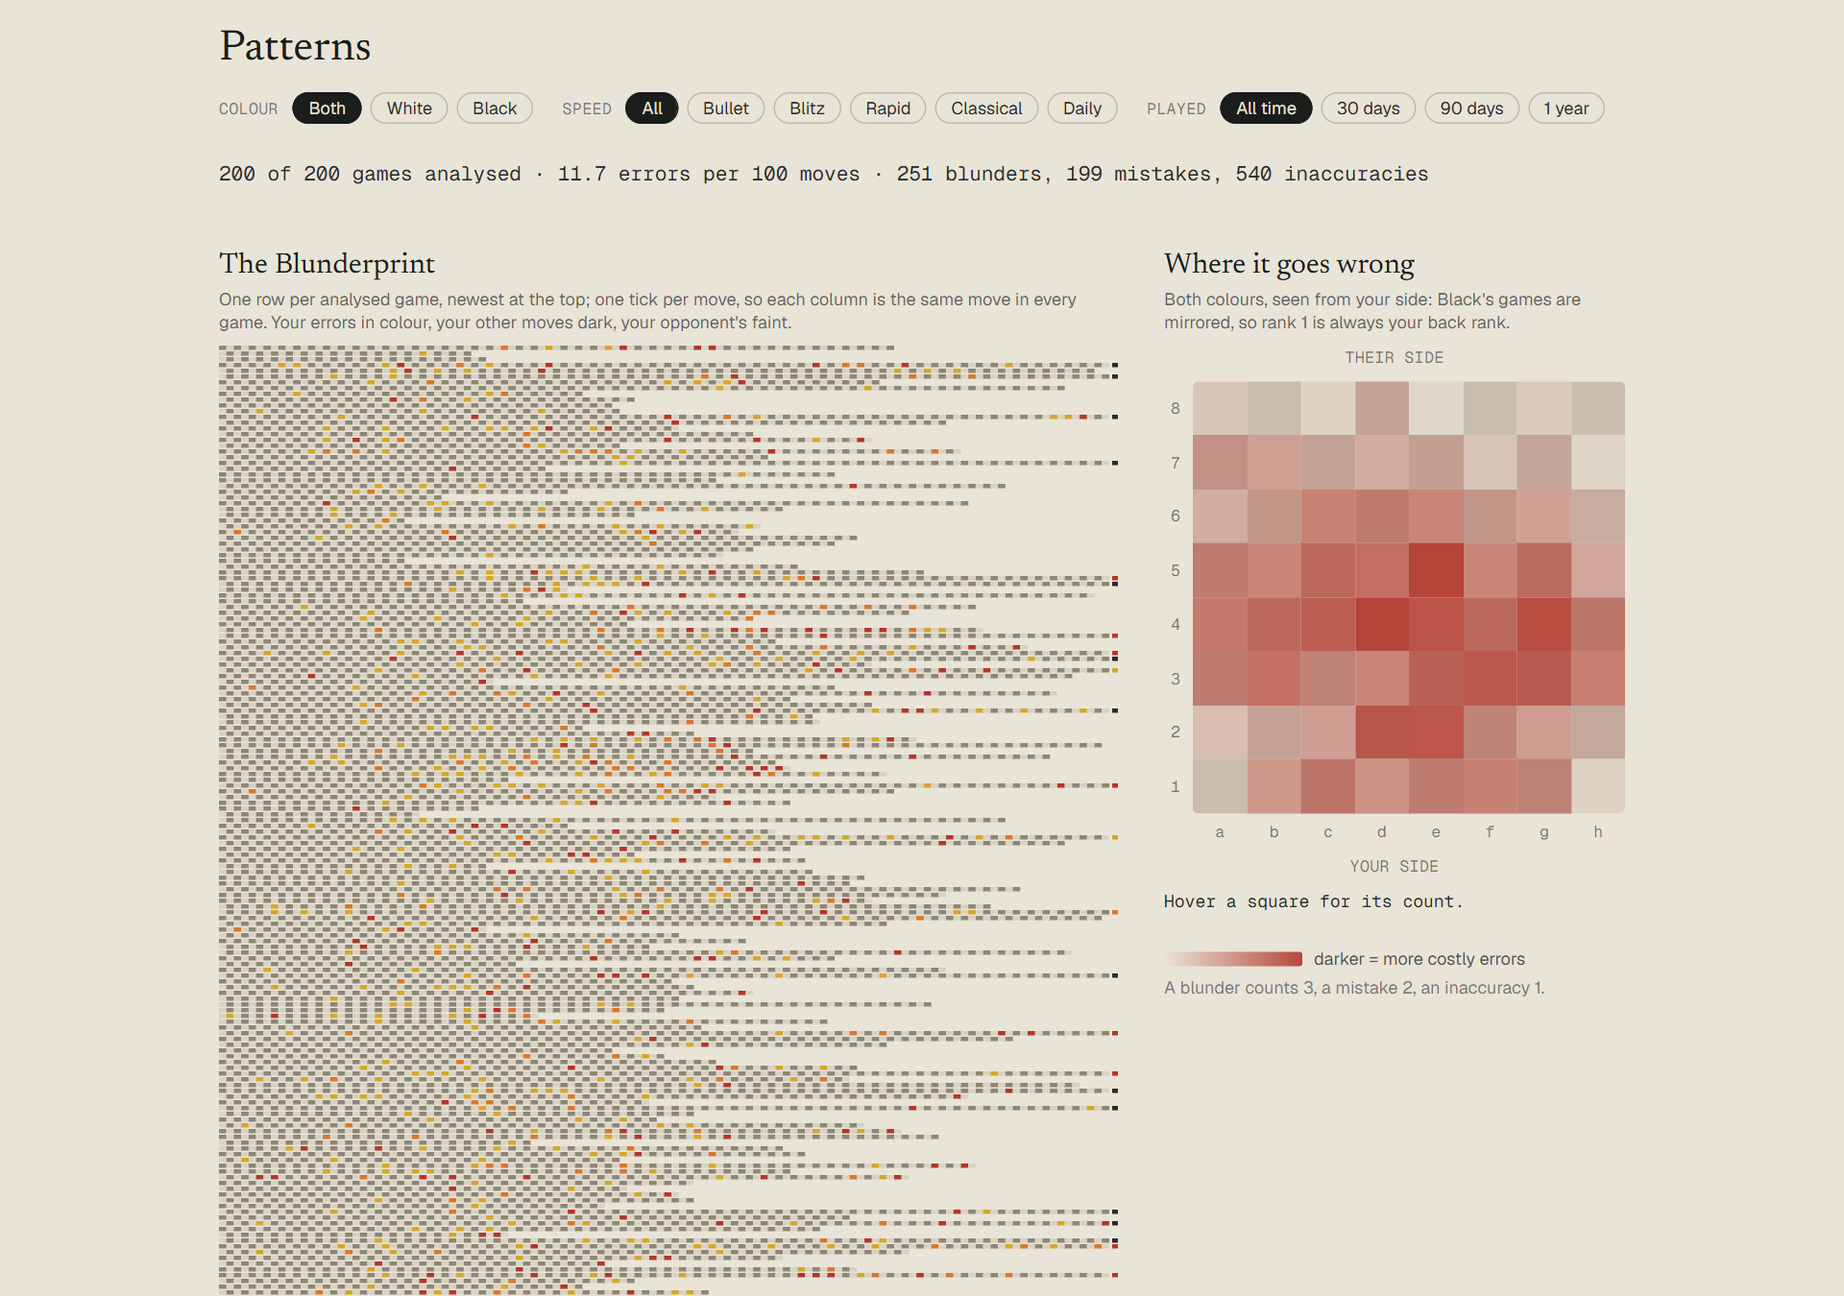
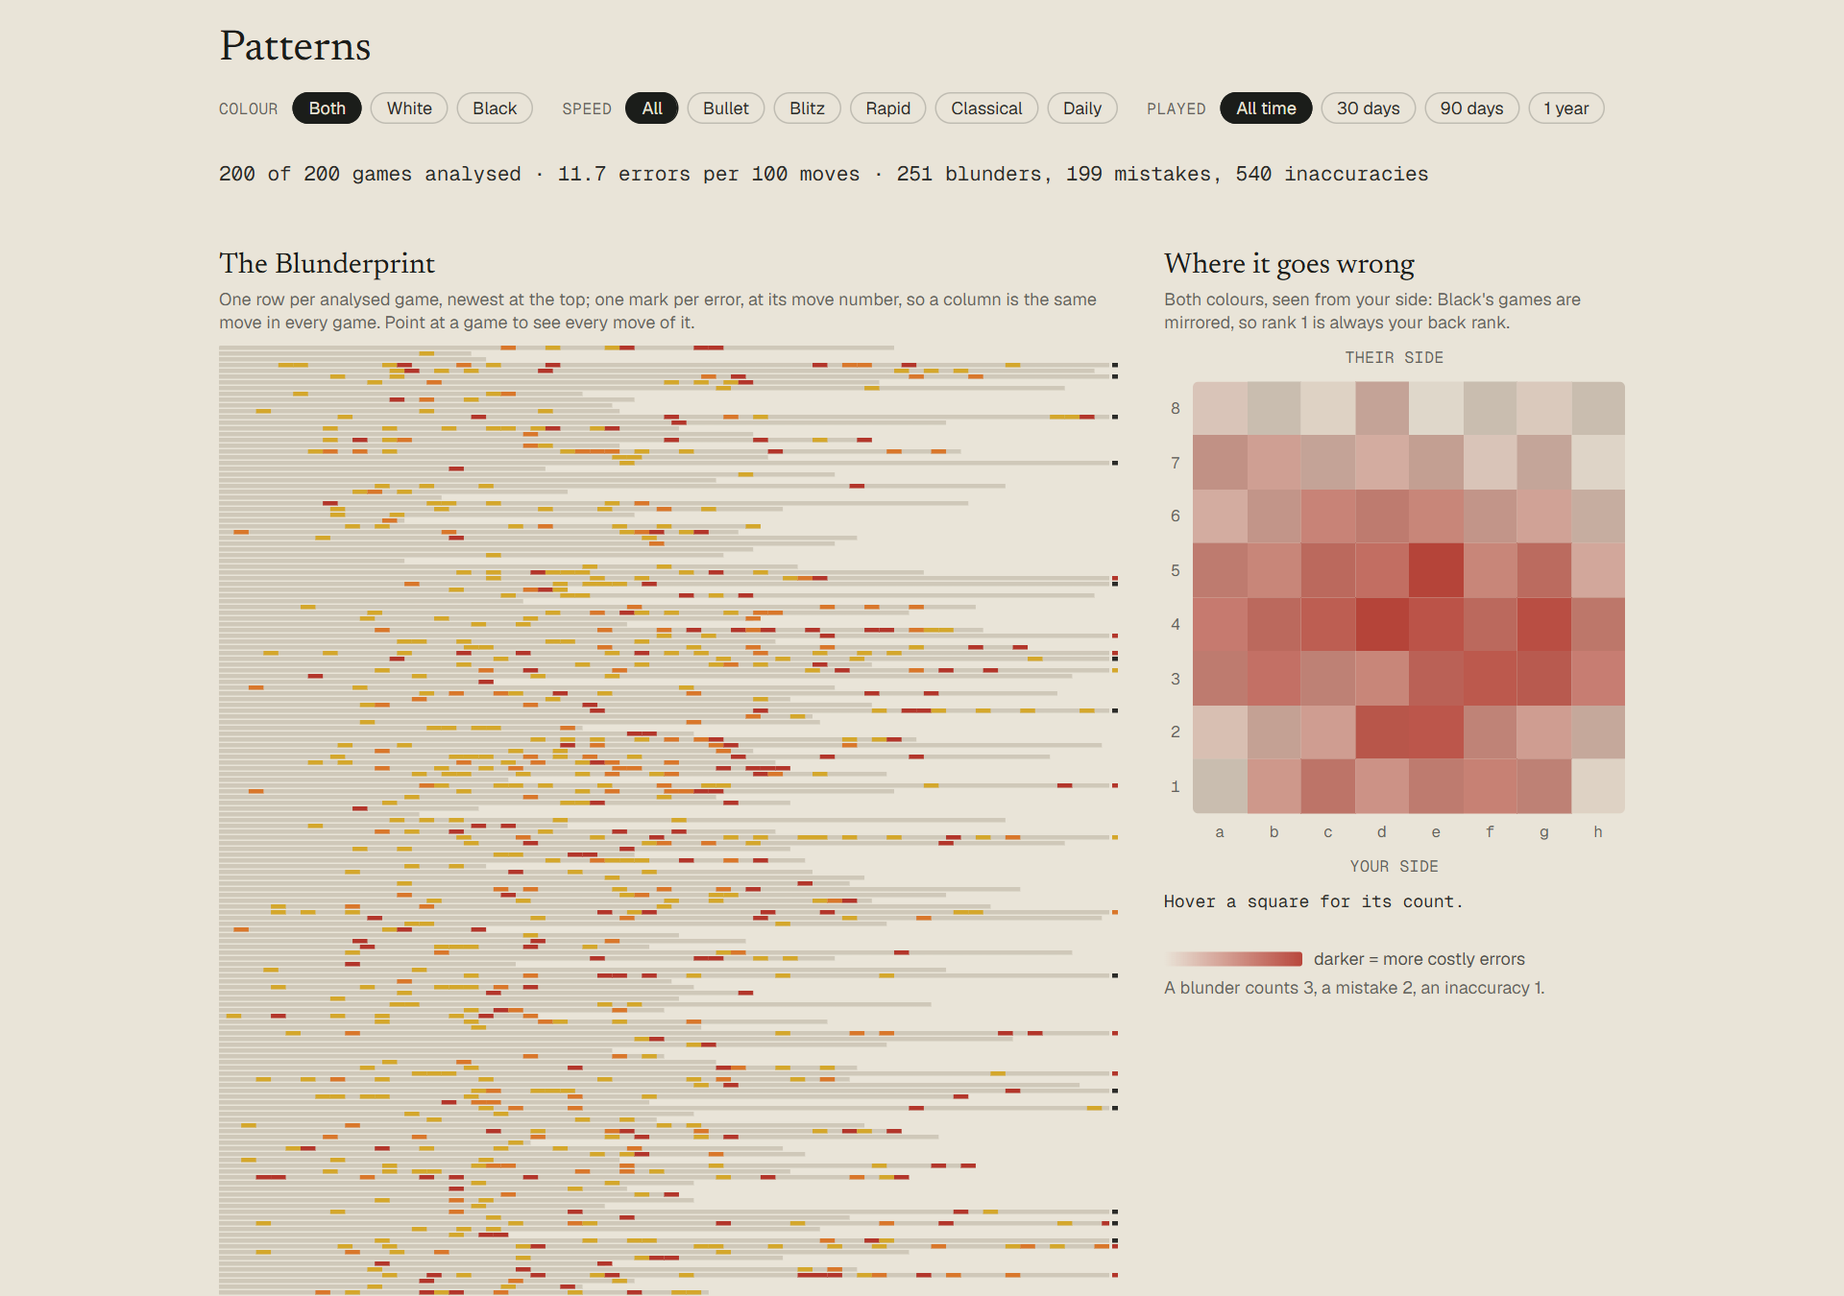
feat: the Blunderprint drawn as a quiet line per game with a mark per error

Changed region(s): [[0.125, 0.2178, 0.5938, 1.0]]

diff --git a/web/src/components/patterns/blunderprint.test.ts b/web/src/components/patterns/blunderprint.test.ts
@@ -1,6 +1,6 @@
 import assert from "node:assert/strict";
 import { describe, test } from "node:test";
-import { drawRows, errorPlies, hitTest, isPlayersPly, layout, loupePly, MARKER_W, moveName, NEUTRAL_MARKER, PLY_CAP, stepError, TICK_COLOR, tickAt, truncation, type Color } from "./geometry";
+import { drawRows, errorPlies, hitTest, isPlayersPly, layout, loupePly, MARK_COLS, MARK_MIN_W, markAt, MARKER_W, moveName, NEUTRAL_MARKER, PLY_CAP, RIDGE, stepError, TICK_COLOR, tickAt, truncation, type Color } from "./geometry";
 
 // Tests for the Blunderprint's geometry (geometry.ts, drawn by Blunderprint.tsx).
 // classes: one letter per ply, b best, g good, i inaccuracy, m mistake, x blunder.
@@ -37,6 +37,20 @@ describe("errors and keyboard stepping", () => {
     assert.equal(stepError(classes, "black", 4, -1), 2);
     assert.equal(stepError(classes, "black", 2, -1), null);
     assert.equal(stepError(classes, "black", 3, 1), 4, "from a non-error ply too");
+  });
+});
+
+describe("markAt: the error whose mark is under a ply", () => {
+  test("the error's own ply and the reply's ply are both its mark; elsewhere there is none", () => {
+    // White's blunder on ply 3: its mark covers plies 3 and 4.
+    assert.equal(markAt("ggxggg", "white", 3), 3);
+    assert.equal(markAt("ggxggg", "white", 4), 3);
+    assert.equal(markAt("ggxggg", "white", 5), null);
+    assert.equal(markAt("ggxggg", "white", 2), null);
+    // The opponent's blunder on ply 4 is no mark of the player's.
+    assert.equal(markAt("gggxgg", "white", 4), null);
+    assert.equal(markAt("gggxgg", "white", 5), null);
+    assert.equal(markAt("xggggg", "white", 1), 1);
   });
 });
 
@@ -147,63 +161,63 @@ describe("drawRows", () => {
   // 10 px per ply: the width is the plies shown × 10 plus the marker margin.
   const widthFor = (columns: number) => columns * 10 + MARKER_W;
 
-  test("one tick per ply at x = (ply − 1) × tick width: the player's errors coloured, the opponent's moves faint", () => {
+  test("a game is one quiet line as long as the game, with a mark two columns wide at each of the player's errors", () => {
     // White: ply 1 good, ply 3 a blunder, ply 5 an inaccuracy. Black's ply 4 is a blunder too, but it's the opponent's.
-    const rows = [row("ggxxig")];
-    const l = layout(widthFor(6), [6], false);
+    const rows = [row("ggxxigg")];
+    const l = layout(widthFor(7), [7], false);
     const c = fakeCanvas();
     drawRows(c.ctx, l, rows, full);
     assert.deepEqual(c.cleared, [[0, 0, l.width, l.height]]);
     assert.deepEqual(
       c.rects.map((r) => [r.x, r.w, r.fill]),
       [
-        [0, 10, TICK_COLOR.own],
-        [10, 10, TICK_COLOR.opponent],
-        [20, 10, TICK_COLOR.blunder],
-        [30, 10, TICK_COLOR.opponent],
-        [40, 10, TICK_COLOR.inaccuracy],
-        [50, 10, TICK_COLOR.opponent],
+        [0, 70, RIDGE],
+        [20, MARK_COLS * 10, TICK_COLOR.blunder],
+        [40, MARK_COLS * 10, TICK_COLOR.inaccuracy],
       ],
     );
     assert.ok(c.rects.every((r) => r.y === 0 && r.h === l.rowH && r.alpha === 1));
   });
 
-  test("the same game seen as Black colours the other plies", () => {
-    const l = layout(widthFor(4), [4], false);
+  test("the same game seen as Black marks the other plies", () => {
+    const l = layout(widthFor(6), [6], false);
     const c = fakeCanvas();
-    drawRows(c.ctx, l, [row("xmxm", "black")], full);
-    assert.deepEqual(c.rects.map((r) => r.fill), [TICK_COLOR.opponent, TICK_COLOR.mistake, TICK_COLOR.opponent, TICK_COLOR.mistake]);
+    drawRows(c.ctx, l, [row("xmxmgg", "black")], full);
+    assert.deepEqual(c.rects.map((r) => [r.x, r.fill]), [[0, RIDGE], [10, TICK_COLOR.mistake], [30, TICK_COLOR.mistake]]);
   });
 
-  test("each row sits at row × pitch, and a shorter game simply ends earlier", () => {
+  test("each row sits at row × pitch, and a shorter game's line simply ends earlier", () => {
     const rows = [row("gggg"), row("gg")];
     const l = layout(widthFor(4), [4, 2], false);
     const c = fakeCanvas();
     drawRows(c.ctx, l, rows, full);
-    const second = c.rects.filter((r) => r.y === l.pitch);
-    assert.equal(c.rects.filter((r) => r.y === 0).length, 4);
-    assert.deepEqual(second.map((r) => [r.x, r.w]), [[0, 10], [10, 10]]);
+    assert.deepEqual(c.rects.map((r) => [r.x, r.y, r.w]), [[0, 0, 40], [0, l.pitch, 20]]);
   });
 
-  test("before the engine pass reaches a ply it is faint stone, and a run of one colour is ONE rectangle", () => {
-    const rows = [row("gxgxgxgx")];
+  test("a mark is never thinner than MARK_MIN_W, and never runs past the cap into the end marker's margin", () => {
+    // 400 columns in 406 px: 1 px a ply, so two columns would be 2 px.
+    const thin = layout(406, [400], false, 400);
+    const a = fakeCanvas();
+    drawRows(a.ctx, thin, [row("x" + "g".repeat(399))], full);
+    assert.equal(a.rects[1]!.w, MARK_MIN_W);
+    // An error on the last column before the cap: its mark is cut at the cap.
+    const l = layout(widthFor(4), [4], false, 4);
+    const b = fakeCanvas();
+    drawRows(b.ctx, l, [row("gggx", "black")], full);
+    assert.deepEqual(b.rects.map((r) => [r.x, r.w, r.fill]), [[0, 40, RIDGE], [30, 10, TICK_COLOR.blunder]]);
+  });
+
+  test("before the engine pass reaches a ply its error is not marked yet: only the quiet line", () => {
+    const rows = [row("xgxgxgxg")];
     const l = layout(widthFor(8), [8], false);
     const none = fakeCanvas();
     drawRows(none.ctx, l, rows, full, 0);
-    assert.deepEqual(none.rects.map((r) => [r.x, r.w, r.fill]), [[0, 80, TICK_COLOR.opponent]]);
+    assert.deepEqual(none.rects.map((r) => [r.x, r.w, r.fill]), [[0, 80, RIDGE]]);
 
-    // Coloured up to ply 3: three ticks, then the other five plies as one faint run.
+    // Marked up to ply 3: the errors on plies 1 and 3, not those on 5 and 7.
     const some = fakeCanvas();
-    drawRows(some.ctx, l, [row("xgxgxgxg")], full, 3);
-    assert.deepEqual(
-      some.rects.map((r) => [r.x, r.w, r.fill]),
-      [
-        [0, 10, TICK_COLOR.blunder],
-        [10, 10, TICK_COLOR.opponent],
-        [20, 10, TICK_COLOR.blunder],
-        [30, 50, TICK_COLOR.opponent],
-      ],
-    );
+    drawRows(some.ctx, l, rows, full, 3);
+    assert.deepEqual(some.rects.map((r) => [r.x, r.fill]), [[0, RIDGE], [0, TICK_COLOR.blunder], [20, TICK_COLOR.blunder]]);
   });
 
   test("a row cut at the cap gets an end marker in the colour of its worst hidden error, or neutral", () => {

diff --git a/web/src/components/patterns/geometry.ts b/web/src/components/patterns/geometry.ts
@@ -1,9 +1,15 @@
 import type { ErrorKind } from "@/lib/api";
 
 // The Blunderprint's geometry and colours, kept out of the canvas component so they can be
-// tested. One row per analysed game (newest first), one tick per ply. x is the ply number on
-// ONE scale for every row, so a column is the same move in every game, and "you go wrong
-// around move 25" shows up as a vertical band.
+// tested. One row per analysed game (newest first): a quiet line as long as the game, and one
+// coloured MARK per error of the player's, at its ply. x is the ply number on ONE scale for
+// every row, so a column is the same move in every game, and "you go wrong around move 25"
+// shows up as a vertical band.
+//
+// (Until the UI pass of Nov 2026 every ply was its own tick: the player's moves dark, the
+// opponent's faint. That alternation was the loudest thing in the picture, and the errors read
+// as specks in grey noise. Single moves are still shown where ONE game is opened up: the loupe,
+// the coach's lens, the landing's dive. TICK_COLOR is for those.)
 //
 // Plies are 1-based here (ply 1 = White's first move), like the game review's ?ply=N.
 
@@ -26,6 +32,13 @@ export const TICK_COLOR: Record<Tick, string> = {
   blunder: "#b3362b",
 };
 export const NEUTRAL_MARKER = "#2b2b28"; // graphite: a cut row with no hidden errors
+// A game's quiet line in the print: between the two stone tones, clearly there on bone but far
+// behind the three error colours.
+export const RIDGE = "#cfc8b9";
+// An error's mark covers its own ply and the reply's (2 columns), and is never thinner than
+// MARK_MIN_W px, so a single error is visible in a 200-game print on a phone.
+export const MARK_COLS = 2;
+export const MARK_MIN_W = 2.5;
 
 const LETTER_KIND: Record<string, ErrorKind | undefined> = { i: "inaccuracy", m: "mistake", x: "blunder" };
 const SEVERITY: Record<ErrorKind, number> = { inaccuracy: 1, mistake: 2, blunder: 3 };
@@ -52,6 +65,13 @@ export function errorPlies(classes: string, color: Color): number[] {
   const out: number[] = [];
   for (let ply = 1; ply <= classes.length; ply++) if (errorKindAt(classes, ply, color)) out.push(ply);
   return out;
+}
+
+// The error whose mark covers `ply`: the ply itself, or the one before it (a mark is MARK_COLS
+// wide). Null where the row is only its quiet line.
+export function markAt(classes: string, color: Color, ply: number): number | null {
+  for (let p = ply; p > ply - MARK_COLS && p >= 1; p--) if (errorKindAt(classes, p, color)) return p;
+  return null;
 }
 
 // The next (dir 1) or previous (dir −1) error from `from` (exclusive; null = from the edge).
@@ -112,10 +132,10 @@ export function loupePly(width: number, plies: number, x: number): number | null
   return Math.min(plies, Math.floor((x / width) * plies) + 1);
 }
 
-// Draws the rows. `alpha(row)` fades rows in (reveal and newly arrived games).
-// `colouredUpTo`: plies after it are drawn as faint stone, as if not analysed yet (the landing
-// hero's engine pass colours the print column by column). End markers appear once every
-// column is coloured.
+// Draws the rows: each game's quiet line, then its error marks on top. `alpha(row)` fades rows
+// in (reveal and newly arrived games). `colouredUpTo`: errors after that ply aren't marked yet,
+// as if not analysed (the landing's engine pass colours the print column by column). End markers
+// appear once every column is coloured.
 export function drawRows(
   ctx: CanvasRenderingContext2D,
   l: Layout,
@@ -123,23 +143,23 @@ export function drawRows(
   alpha: (row: number) => number,
   colouredUpTo = Infinity,
 ): void {
-  const tick = (r: { classes: string; color: Color }, ply: number): Tick => (ply <= colouredUpTo ? tickAt(r.classes, ply, r.color) : "opponent");
   ctx.clearRect(0, 0, l.width, l.height);
+  const edge = l.columns * l.tickW; // marks stop at the cap: the margin past it is the end marker's
   rows.forEach((r, row) => {
     const a = alpha(row);
     if (a <= 0) return;
     ctx.globalAlpha = a;
     const y = row * l.pitch;
     const shown = Math.min(r.classes.length, l.columns);
-    // Runs of one colour are one rectangle: fewer draw calls, and no hairline seams between ticks.
-    let start = 1;
-    for (let ply = 2; ply <= shown + 1; ply++) {
-      const prev = tick(r, ply - 1);
-      if (ply === shown + 1 || tick(r, ply) !== prev) {
-        ctx.fillStyle = TICK_COLOR[prev];
-        ctx.fillRect((start - 1) * l.tickW, y, (ply - start) * l.tickW, l.rowH);
-        start = ply;
-      }
+    ctx.fillStyle = RIDGE;
+    ctx.fillRect(0, y, shown * l.tickW, l.rowH);
+    const upTo = Math.min(shown, colouredUpTo);
+    for (let ply = 1; ply <= upTo; ply++) {
+      const kind = errorKindAt(r.classes, ply, r.color);
+      if (!kind) continue;
+      const x = (ply - 1) * l.tickW;
+      ctx.fillStyle = TICK_COLOR[kind];
+      ctx.fillRect(x, y, Math.min(Math.max(MARK_MIN_W, MARK_COLS * l.tickW), edge - x), l.rowH);
     }
     const t = truncation(r.classes, r.color, l.columns);
     if (t.cut && colouredUpTo > l.columns) {

diff --git a/web/src/components/patterns/Blunderprint.tsx b/web/src/components/patterns/Blunderprint.tsx
@@ -12,6 +12,8 @@ import {
   hitTest,
   layout,
   loupePly,
+  MARK_COLS,
+  markAt,
   moveName,
   stepError,
   tickAt,
@@ -19,8 +21,8 @@ import {
   truncation,
 } from "./geometry";
 
-// The signature visual: every analysed game as one thin row, one tick per ply, newest at the
-// top. Drawn on ONE canvas: 200 games × ~80 plies is ~16,000 ticks, which as SVG or divs would
+// The signature visual: every analysed game as one thin row (a quiet line with a coloured mark
+// per error, geometry.ts), newest at the top. Drawn on ONE canvas: 200 games × ~80 plies is ~16,000 ticks, which as SVG or divs would
 // be 16,000 DOM nodes to lay out and animate; the canvas draws them in a couple of
 // milliseconds. Interaction is plain maths on the pointer position (blunderprint.ts hitTest).
 //
@@ -127,7 +129,11 @@ export function Blunderprint({ ribbons, gameHref }: { ribbons: Ribbon[]; gameHre
   // ---- Pointer -----------------------------------------------------------------------------------
   const pointAt = (e: React.PointerEvent | React.MouseEvent) => {
     const rect = canvas.current!.getBoundingClientRect();
-    return hitTest(l, lengths, e.clientX - rect.left, e.clientY - rect.top);
+    const hit = hitTest(l, lengths, e.clientX - rect.left, e.clientY - rect.top);
+    if (!hit || hit.ply === null) return hit;
+    // Anywhere on an error's mark (two columns wide) is that error.
+    const g = ribbons[hit.row]!;
+    return { row: hit.row, ply: markAt(g.classes, g.color, hit.ply) ?? hit.ply };
   };
   const onPointerMove = (e: React.PointerEvent) => {
     pointerType.current = e.pointerType;
@@ -194,7 +200,7 @@ export function Blunderprint({ ribbons, gameHref }: { ribbons: Ribbon[]; gameHre
           ref={canvas}
           tabIndex={0}
           role="img"
-          aria-label={`Blunderprint: ${ribbons.length} analysed games, newest at the top, one tick per move. Use the arrow keys to explore and Enter to open a game.`}
+          aria-label={`Blunderprint: ${ribbons.length} analysed games, newest at the top, one mark per error. Use the arrow keys to explore and Enter to open a game.`}
           aria-describedby="blunderprint-status"
           // A pointer over a move (a click opens the game there); the plain arrow between moves.
           className={`block touch-manipulation rounded-[1px] outline-1 outline-offset-4 outline-transparent transition-[outline-color] duration-150 hover:outline-ink/25 focus-visible:outline-offset-4 active:outline-ink/50 ${current?.source === "pointer" && current.ply ? "cursor-pointer" : "cursor-default"}`}
@@ -223,7 +229,7 @@ export function Blunderprint({ ribbons, gameHref }: { ribbons: Ribbon[]; gameHre
                 style={{
                   transform: `translate(${(current.ply - 1) * l.tickW - 1}px, ${current.row * l.pitch - 3}px)`,
                   height: l.rowH + 6,
-                  width: Math.max(3, l.tickW + 2),
+                  width: Math.max(3, (errorKindAt(game.classes, current.ply, game.color) ? MARK_COLS : 1) * l.tickW + 2),
                 }}
               />
             )}

diff --git a/web/src/components/patterns/PatternsDashboard.tsx b/web/src/components/patterns/PatternsDashboard.tsx
@@ -107,8 +107,8 @@ export function PatternsDashboard({
                   <figcaption className="flex flex-col gap-0.5">
                     <span className="font-display text-xl text-ink">The Blunderprint</span>
                     <span className="text-xs text-graphite/70">
-                      One row per analysed game, newest at the top; one tick per move, so each column is the same move
-                      in every game. Your errors in colour, your other moves dark, your opponent&apos;s faint.
+                      One row per analysed game, newest at the top; one mark per error, at its move number, so a
+                      column is the same move in every game. Point at a game to see every move of it.
                     </span>
                   </figcaption>
                   <Blunderprint ribbons={summary.ribbons} gameHref={gameHref} />

diff --git a/web/src/components/landing/heroTimeline.ts b/web/src/components/landing/heroTimeline.ts
@@ -1,4 +1,4 @@
-import { layout, type Layout } from "../patterns/geometry";
+import { layout, MARK_COLS, type Layout } from "../patterns/geometry";
 
 // The landing hero, "the print develops", as pure functions of the time since it started, so
 // the phases and the final state can be tested without a browser.
@@ -71,9 +71,9 @@ export function heroLayout(width: number, lengths: number[], compact: boolean): 
   return { ...base, rowH, pitch, height: lengths.length * pitch };
 }
 
-// The centre of a ply's tick: where a margin note's ring goes.
+// The centre of an error's mark (MARK_COLS columns wide from its ply): where a margin note's ring goes.
 export const tickCentre = (l: Layout, row: number, ply: number) => ({
-  x: (ply - 0.5) * l.tickW,
+  x: (ply - 1 + MARK_COLS / 2) * l.tickW,
   y: row * l.pitch + l.rowH / 2,
 });
 

diff --git a/web/src/components/landing/HeroPrint.tsx b/web/src/components/landing/HeroPrint.tsx
@@ -212,7 +212,7 @@ export function HeroPrint({ demo }: { demo: DemoSnapshot }) {
         <canvas
           ref={canvas}
           role="img"
-          aria-label={`A Blunderprint: ${ribbons.length} games of the Lichess account ${demo.username}, one row per game, one tick per move, coloured where the player went wrong. The coach's three notes are listed beside it.`}
+          aria-label={`A Blunderprint: ${ribbons.length} games of the Lichess account ${demo.username}, one row per game, one coloured mark per error. The coach's three notes are listed beside it.`}
           className={`block ${thin ? "" : "cursor-pointer"}`}
           style={{ width: l.width, height: l.height }}
           onPointerMove={(e) => {

diff --git a/web/src/components/coach/lens.ts b/web/src/components/coach/lens.ts
@@ -2,7 +2,7 @@ import type { CoachEvidence } from "@/lib/api";
 import { TICK_COLOR, tickAt, type Color } from "../patterns/geometry";
 
 // The "fingerprint lens": a pattern card's strip of its evidence games' move ribbons, in the
-// Blunderprint's own language (one tick per ply, only the player's errors coloured, opponent
+// Blunderprint's opened-up language (one tick per ply, only the player's errors coloured, opponent
 // moves faint), with the evidence move ringed. Its maths lives here so it can be tested.
 //
 // Unlike the Blunderprint, the strip isn't cut at 120 plies: it has only 2-4 rows, so every row

diff --git a/CLAUDE.md b/CLAUDE.md
@@ -666,6 +666,7 @@ Rules:
   - Beside it sits an 8×8 **heat board** of where mistakes happen.
   - Clicking a tick opens that exact position.
   - **As built (Stage 3):**
+    - **Redrawn in the UI pass (20 Nov 2026, `geometry.ts` `drawRows`): a quiet line per game, a mark per error.** Each game is one pale line (`RIDGE` `#cfc8b9`) as long as the game; each of the player's errors is a coloured mark at its ply, 2 columns wide (`MARK_COLS`: its own ply and the reply's), never thinner than 2.5 px. Before, every ply was its own tick (the player's moves dark, the opponent's faint), and that alternation was the loudest thing in the picture: at 1280 px the landing's print read as grey noise. Single moves are still shown wherever ONE game is opened: the loupe, the coach's lens (`TICK_COLOR`). Anywhere on a mark is that error (`markAt`), for hover and click. The games list's per-game ribbons (`lib/ribbon.ts`) are unchanged.
     - One **canvas** (200 games × ~80 plies is ~16,000 ticks; as DOM nodes that would be slow). Rows 3 px + 1 px gap (2 + 1 on narrow screens), newest at the top. x is the ply on one scale for all rows, so a column is the same move in every game.
     - Rows are cut at **120 plies** so one long game doesn't squash the rest. A cut row gets an end marker tinted by the worst of the player's errors past the cap. The hover/tap **loupe** draws the game's full row, and its ticks can be clicked too.
     - Keyboard: ↑/↓ choose a game, ←/→ step through its errors (past the cap too), Enter opens.
